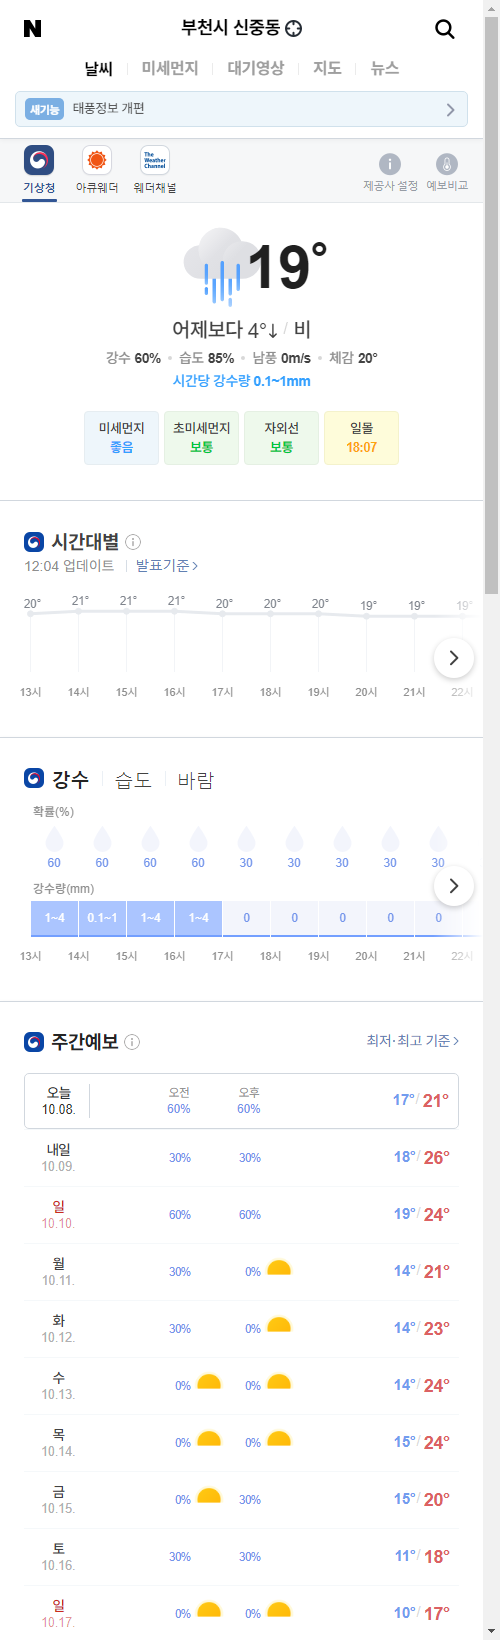
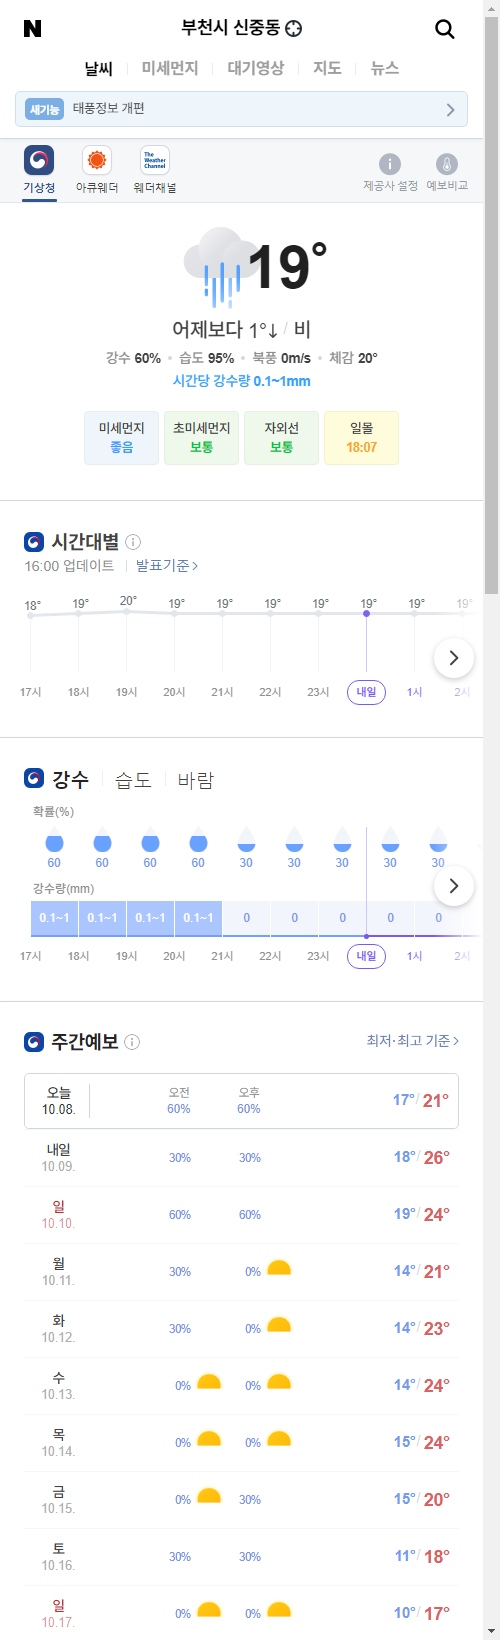
update result

diff --git a/README.md b/README.md
@@ -1,5 +1,5 @@
-##  2021-10-08 12:07:42   금요일 
-##### 날씨   -   어제보다 4° 낮아요비  
+##  2021-10-08 16:03:08   금요일 
+##### 날씨   -   어제보다 1° 낮아요비  
 <center><img src="../img/naver_weather_week.png"></center>
 ----
 ----
@@ -16,14 +16,14 @@
 <tr align = "right" > <td>DOW</td><td>34,754.94</td><td>337.95</td><td><font size="3" color="red" >0.98%</font></td><td><font size="3" color="black">0</font></td><td><font size="3" color="black">0</font></td><td>0</td>  </tr>
 <tr align = "right" > <td>NASDAQ</td><td>14,654.02</td><td>152.11</td><td><font size="3" color="red" >1.05%</font></td><td><font size="3" color="black">0</font></td><td><font size="3" color="black">0</font></td><td>0</td>  </tr>
 <tr align = "right" > <td>S&P</td><td>4,399.76</td><td>36.21</td><td><font size="3" color="red" >0.83%</font></td><td><font size="3" color="black">0</font></td><td><font size="3" color="black">0</font></td><td>0</td>  </tr>
-<tr align = "right" > <td>SHANHAI</td><td>3,588.38</td><td>20.21</td><td><font size="3" color="red" >0.57%</font></td><td><font size="3" color="black">0</font></td><td><font size="3" color="black">0</font></td><td>0</td>  </tr>
-<tr align = "right" > <td>INDIA</td><td>59,677.83</td><td>488.1</td><td><font size="3" color="red" >0.82%</font></td><td><font size="3" color="black">0</font></td><td><font size="3" color="black">0</font></td><td>0</td>  </tr>
+<tr align = "right" > <td>SHANHAI</td><td>3,588.06</td><td>19.89</td><td><font size="3" color="red" >0.56%</font></td><td><font size="3" color="black">0</font></td><td><font size="3" color="black">0</font></td><td>0</td>  </tr>
+<tr align = "right" > <td>INDIA</td><td>59,888.44</td><td>210.61</td><td><font size="3" color="red" >0.35%</font></td><td><font size="3" color="black">0</font></td><td><font size="3" color="black">0</font></td><td>0</td>  </tr>
 </table>
 ----
 ##### 시장
 <table border="1" bordercolor="blue" align = "center" >
 <tr align = "right" > <td>Item</td><td>Price</td><td>Diff</td><td>Rate</td><td>Buy</td><td>Sell</td><td>...</td>  </tr>
-<tr align = "right" > <td>USD</td><td>1,192.0</td><td>2.4</td><td><font size="3" color="red">0.2%</font></td><td><font size="3" color="black">1,110</font></td><td><font size="3" color="black">0</font></td><td>0</td>  </tr>
+<tr align = "right" > <td>USD</td><td>1,195.0</td><td>5.0</td><td><font size="3" color="red">0.42%</font></td><td><font size="3" color="black">1,110</font></td><td><font size="3" color="black">0</font></td><td>0</td>  </tr>
 <tr align = "right" > <td>WTI</td><td>78.3</td><td>0.87</td><td><font size="3" color="red">1.12%</font></td><td><font size="3" color="black">29.0</font></td><td><font size="3" color="black">0</font></td><td>0</td>  </tr>
 <tr align = "right" > <td>GOLD</td><td>1,757.0</td><td>-2.6</td><td><font size="3" color="blue">-0.14%</font></td><td><font size="3" color="black">0</font></td><td><font size="3" color="black">0</font></td><td>0</td>  </tr>
 </table>
@@ -31,33 +31,33 @@
 ##### 주가
 <table border="1" bordercolor="blue" align = "center" >
 <tr align = "right" > <td>Item</td><td>Price</td><td>Diff</td><td>Rate</td><td>Purchased</td><td>Sell</td><td>Buy</td>  </tr>
-<tr align = "right" > <td>한국 전력</td><td>22,850</td><td>-150</td><td><font size="3" color="blue">-0.65%</font></td><td>25,720</td><td><font size="3" color="black">27,700</font></td><td><font size="3" color="black">20,700</font></td>  </tr>
-<tr align = "right" > <td>삼성엔지니어.</td><td>24,500</td><td>-200</td><td><font size="3" color="blue">-0.81%</font></td><td>18,935</td><td><font size="3" color="black">20,000</font></td><td><font size="3" color="black">8,000</font></td>  </tr>
-<tr align = "right" > <td>CJ CGV</td><td>30,150</td><td>-500</td><td><font size="3" color="blue">-1.63%</font></td><td>34,895</td><td><font size="3" color="black">36,000</font></td><td><font size="3" color="black">0</font></td>  </tr>
-<tr align = "right" > <td>아모레퍼시픽</td><td>179,500</td><td>-2,500</td><td><font size="3" color="blue">-1.37%</font></td><td>180,000</td><td><font size="3" color="black">240,000</font></td><td><font size="3" color="black">130,000</font></td>  </tr>
-<tr align = "right" > <td>한화</td><td>35,150</td><td>50</td><td><font size="3" color="red">0.14%</font></td><td>25,550</td><td><font size="3" color="black">26,250</font></td><td><font size="3" color="black">26,250</font></td>  </tr>
-<tr align = "right" > <td>NAVER</td><td>390,500</td><td>-3,000</td><td><font size="3" color="blue">-0.76%</font></td><td>147,200</td><td><font size="3" color="black">386,000</font></td><td><font size="3" color="black">286,000</font></td>  </tr>
-<tr align = "right" > <td>LG 화학우</td><td>365,500</td><td>6,500</td><td><font size="3" color="red">1.81%</font></td><td>202,490</td><td><font size="3" color="black">384,000</font></td><td><font size="3" color="orangered">384,000</font></td>  </tr>
-<tr align = "right" > <td>스튜디오드래.</td><td>93,900</td><td>500</td><td><font size="3" color="red">0.54%</font></td><td>81,243</td><td><font size="3" color="black">85,200</font></td><td><font size="3" color="black">85,200</font></td>  </tr>
-<tr align = "right" > <td>QV미국IT</td><td>31,190</td><td>70</td><td><font size="3" color="red">0.22%</font></td><td>0</td><td><font size="3" color="black">30,000</font></td><td><font size="3" color="black">20,000</font></td>  </tr>
-<tr align = "right" > <td>삼성 전자우</td><td>66,400</td><td>800</td><td><font size="3" color="red">1.22%</font></td><td>60,675</td><td><font size="3" color="black">76,000</font></td><td><font size="3" color="black">55,000</font></td>  </tr>
-<tr align = "right" > <td>LS</td><td>63,400</td><td>1,100</td><td><font size="3" color="red">1.77%</font></td><td>71,900</td><td><font size="3" color="black">82,000</font></td><td><font size="3" color="black">60,000</font></td>  </tr>
-<tr align = "right" > <td>한화에어로스.</td><td>48,850</td><td>-850</td><td><font size="3" color="blue">-1.71%</font></td><td>25,700</td><td><font size="3" color="black">30,000</font></td><td><font size="3" color="black">24,000</font></td>  </tr>
-<tr align = "right" > <td>세틀뱅크</td><td>30,150</td><td>-250</td><td><font size="3" color="blue">-0.82%</font></td><td>35,078</td><td><font size="3" color="black">40,000</font></td><td><font size="3" color="black">25,000</font></td>  </tr>
+<tr align = "right" > <td>한국 전력</td><td>22,800</td><td>-200</td><td><font size="3" color="blue">-0.87%</font></td><td>25,720</td><td><font size="3" color="black">27,700</font></td><td><font size="3" color="black">20,700</font></td>  </tr>
+<tr align = "right" > <td>삼성엔지니어.</td><td>24,300</td><td>-400</td><td><font size="3" color="blue">-1.62%</font></td><td>18,935</td><td><font size="3" color="black">20,000</font></td><td><font size="3" color="black">8,000</font></td>  </tr>
+<tr align = "right" > <td>CJ CGV</td><td>30,200</td><td>-450</td><td><font size="3" color="blue">-1.47%</font></td><td>34,895</td><td><font size="3" color="black">36,000</font></td><td><font size="3" color="black">0</font></td>  </tr>
+<tr align = "right" > <td>아모레퍼시픽</td><td>181,500</td><td>-500</td><td><font size="3" color="blue">-0.27%</font></td><td>180,000</td><td><font size="3" color="black">240,000</font></td><td><font size="3" color="black">130,000</font></td>  </tr>
+<tr align = "right" > <td>한화</td><td>34,850</td><td>-250</td><td><font size="3" color="blue">-0.71%</font></td><td>25,550</td><td><font size="3" color="black">26,250</font></td><td><font size="3" color="black">26,250</font></td>  </tr>
+<tr align = "right" > <td>NAVER</td><td>388,500</td><td>-5,000</td><td><font size="3" color="blue">-1.27%</font></td><td>147,200</td><td><font size="3" color="black">386,000</font></td><td><font size="3" color="black">286,000</font></td>  </tr>
+<tr align = "right" > <td>LG 화학우</td><td>365,000</td><td>6,000</td><td><font size="3" color="red">1.67%</font></td><td>202,490</td><td><font size="3" color="black">384,000</font></td><td><font size="3" color="orangered">384,000</font></td>  </tr>
+<tr align = "right" > <td>스튜디오드래.</td><td>92,300</td><td>-1,100</td><td><font size="3" color="blue">-1.18%</font></td><td>81,243</td><td><font size="3" color="black">85,200</font></td><td><font size="3" color="black">85,200</font></td>  </tr>
+<tr align = "right" > <td>QV미국IT</td><td>31,025</td><td>-95</td><td><font size="3" color="blue">-0.31%</font></td><td>0</td><td><font size="3" color="black">30,000</font></td><td><font size="3" color="black">20,000</font></td>  </tr>
+<tr align = "right" > <td>삼성 전자우</td><td>66,300</td><td>700</td><td><font size="3" color="red">1.07%</font></td><td>60,675</td><td><font size="3" color="black">76,000</font></td><td><font size="3" color="black">55,000</font></td>  </tr>
+<tr align = "right" > <td>LS</td><td>62,900</td><td>600</td><td><font size="3" color="red">0.96%</font></td><td>71,900</td><td><font size="3" color="black">82,000</font></td><td><font size="3" color="black">60,000</font></td>  </tr>
+<tr align = "right" > <td>한화에어로스.</td><td>48,800</td><td>-900</td><td><font size="3" color="blue">-1.81%</font></td><td>25,700</td><td><font size="3" color="black">30,000</font></td><td><font size="3" color="black">24,000</font></td>  </tr>
+<tr align = "right" > <td>세틀뱅크</td><td>30,700</td><td>300</td><td><font size="3" color="red">0.99%</font></td><td>35,078</td><td><font size="3" color="black">40,000</font></td><td><font size="3" color="black">25,000</font></td>  </tr>
 <tr align = "right" > <td>한화시스템.</td><td>16,800</td><td>100</td><td><font size="3" color="red">0.6%</font></td><td>16,875</td><td><font size="3" color="black">30,000</font></td><td><font size="3" color="black">14,000</font></td>  </tr>
-<tr align = "right" > <td>카카오</td><td>119,500</td><td>0</td><td><font size="3" color="black">0.0%</font></td><td>405,500</td><td><font size="3" color="black">440,000</font></td><td><font size="3" color="orangered">400,000</font></td>  </tr>
+<tr align = "right" > <td>카카오</td><td>117,500</td><td>-2,000</td><td><font size="3" color="blue">-1.67%</font></td><td>405,500</td><td><font size="3" color="black">440,000</font></td><td><font size="3" color="orangered">400,000</font></td>  </tr>
 <tr align = "right" > <td>호텔 신라</td><td>90,700</td><td>-300</td><td><font size="3" color="blue">-0.33%</font></td><td>88,650</td><td><font size="3" color="black">100,000</font></td><td><font size="3" color="black">70,000</font></td>  </tr>
-<tr align = "right" > <td>S-Oil</td><td>106,500</td><td>-1,500</td><td><font size="3" color="blue">-1.39%</font></td><td>62,842</td><td><font size="3" color="black">100,000</font></td><td><font size="3" color="black">50,000</font></td>  </tr>
-<tr align = "right" > <td>LG전자</td><td>122,000</td><td>-2,000</td><td><font size="3" color="blue">-1.61%</font></td><td>82,022</td><td><font size="3" color="black">100,000</font></td><td><font size="3" color="black">60,000</font></td>  </tr>
-<tr align = "right" > <td>KT&G</td><td>80,800</td><td>-500</td><td><font size="3" color="blue">-0.62%</font></td><td>79,700</td><td><font size="3" color="black">100,000</font></td><td><font size="3" color="black">70,000</font></td>  </tr>
-<tr align = "right" > <td>지역난방공사</td><td>43,450</td><td>-500</td><td><font size="3" color="blue">-1.14%</font></td><td>43,590</td><td><font size="3" color="black">60,000</font></td><td><font size="3" color="black">30,000</font></td>  </tr>
-<tr align = "right" > <td>맥쿼리인프라</td><td>12,900</td><td>-50</td><td><font size="3" color="blue">-0.39%</font></td><td>12,577</td><td><font size="3" color="black">30,000</font></td><td><font size="3" color="black">10,000</font></td>  </tr>
-<tr align = "right" > <td>KOEDX은행</td><td>7,355</td><td>-120</td><td><font size="3" color="blue">-1.61%</font></td><td>7,578</td><td><font size="3" color="black">8,825</font></td><td><font size="3" color="black">6,225</font></td>  </tr>
-<tr align = "right" > <td>글로벌럭셔리</td><td>17,900</td><td>270</td><td><font size="3" color="red">1.53%</font></td><td>16,302</td><td><font size="3" color="black">20,000</font></td><td><font size="3" color="black">10,000</font></td>  </tr>
-<tr align = "right" > <td>TIRGER200건설</td><td>3,165</td><td>-35</td><td><font size="3" color="blue">-1.09%</font></td><td>3,440</td><td><font size="3" color="black">4,000</font></td><td><font size="3" color="black">3,000</font></td>  </tr>
-<tr align = "right" > <td>KODEXK미래차</td><td>10,610</td><td>350</td><td><font size="3" color="red">3.41%</font></td><td>10,955</td><td><font size="3" color="black">20,000</font></td><td><font size="3" color="black">10,000</font></td>  </tr>
-<tr align = "right" > <td>TIGER글로벌BBIG</td><td>11,745</td><td>105</td><td><font size="3" color="red">0.9%</font></td><td>11,020</td><td><font size="3" color="black">20,000</font></td><td><font size="3" color="black">10,000</font></td>  </tr>
-<tr align = "right" > <td>TIGER퓨처모빌리티</td><td>11,275</td><td>315</td><td><font size="3" color="red">2.87%</font></td><td>10,695</td><td><font size="3" color="black">20,000</font></td><td><font size="3" color="black">10,000</font></td>  </tr>
-<tr align = "right" > <td>한국금융지주</td><td>84,200</td><td>-800</td><td><font size="3" color="blue">-0.94%</font></td><td>0</td><td><font size="3" color="black">82,000</font></td><td><font size="3" color="black">60,000</font></td>  </tr>
+<tr align = "right" > <td>S-Oil</td><td>106,000</td><td>-2,000</td><td><font size="3" color="blue">-1.85%</font></td><td>62,842</td><td><font size="3" color="black">100,000</font></td><td><font size="3" color="black">50,000</font></td>  </tr>
+<tr align = "right" > <td>LG전자</td><td>120,000</td><td>-4,000</td><td><font size="3" color="blue">-3.23%</font></td><td>82,022</td><td><font size="3" color="black">100,000</font></td><td><font size="3" color="black">60,000</font></td>  </tr>
+<tr align = "right" > <td>KT&G</td><td>80,700</td><td>-600</td><td><font size="3" color="blue">-0.74%</font></td><td>79,700</td><td><font size="3" color="black">100,000</font></td><td><font size="3" color="black">70,000</font></td>  </tr>
+<tr align = "right" > <td>지역난방공사</td><td>43,950</td><td>0</td><td><font size="3" color="black">0.0%</font></td><td>43,590</td><td><font size="3" color="black">60,000</font></td><td><font size="3" color="black">30,000</font></td>  </tr>
+<tr align = "right" > <td>맥쿼리인프라</td><td>12,950</td><td>0</td><td><font size="3" color="black">0.0%</font></td><td>12,577</td><td><font size="3" color="black">30,000</font></td><td><font size="3" color="black">10,000</font></td>  </tr>
+<tr align = "right" > <td>KOEDX은행</td><td>7,345</td><td>-130</td><td><font size="3" color="blue">-1.74%</font></td><td>7,578</td><td><font size="3" color="black">8,825</font></td><td><font size="3" color="black">6,225</font></td>  </tr>
+<tr align = "right" > <td>글로벌럭셔리</td><td>17,920</td><td>290</td><td><font size="3" color="red">1.64%</font></td><td>16,302</td><td><font size="3" color="black">20,000</font></td><td><font size="3" color="black">10,000</font></td>  </tr>
+<tr align = "right" > <td>TIRGER200건설</td><td>3,150</td><td>-50</td><td><font size="3" color="blue">-1.56%</font></td><td>3,440</td><td><font size="3" color="black">4,000</font></td><td><font size="3" color="black">3,000</font></td>  </tr>
+<tr align = "right" > <td>KODEXK미래차</td><td>10,600</td><td>340</td><td><font size="3" color="red">3.31%</font></td><td>10,955</td><td><font size="3" color="black">20,000</font></td><td><font size="3" color="black">10,000</font></td>  </tr>
+<tr align = "right" > <td>TIGER글로벌BBIG</td><td>11,725</td><td>85</td><td><font size="3" color="red">0.73%</font></td><td>11,020</td><td><font size="3" color="black">20,000</font></td><td><font size="3" color="black">10,000</font></td>  </tr>
+<tr align = "right" > <td>TIGER퓨처모빌리티</td><td>11,180</td><td>220</td><td><font size="3" color="red">2.01%</font></td><td>10,695</td><td><font size="3" color="black">20,000</font></td><td><font size="3" color="black">10,000</font></td>  </tr>
+<tr align = "right" > <td>한국금융지주</td><td>83,900</td><td>-1,100</td><td><font size="3" color="blue">-1.29%</font></td><td>0</td><td><font size="3" color="black">82,000</font></td><td><font size="3" color="black">60,000</font></td>  </tr>
 </table>
 ----
